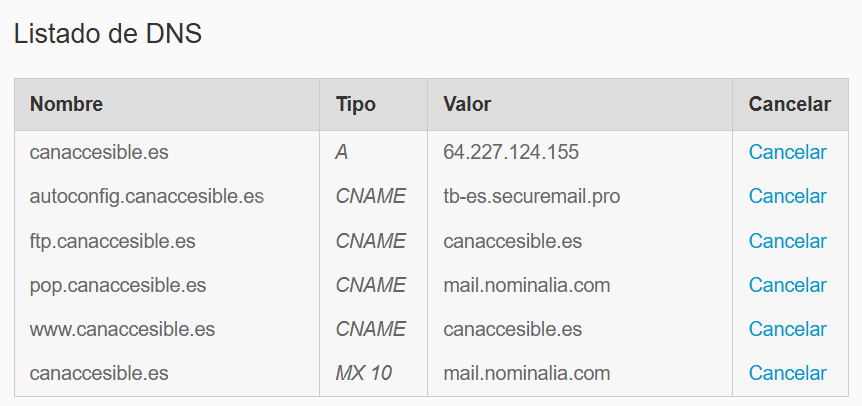
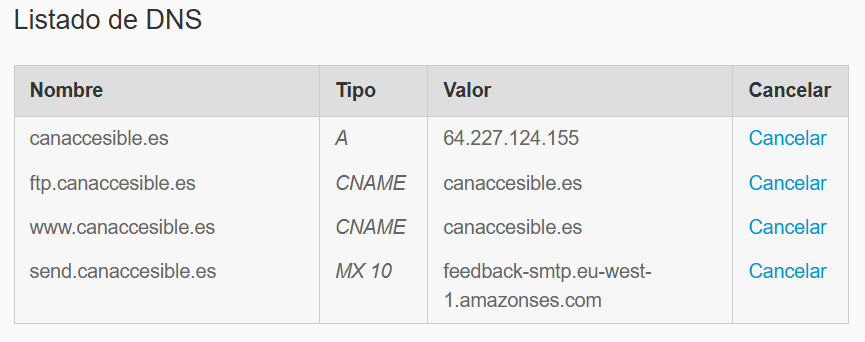
docs: Add Resend Email Service setup guide and update DNS configuration details

diff --git a/docs/domain-dns-setup.md b/docs/domain-dns-setup.md
@@ -17,11 +17,15 @@ To link the domain with the server, the DNS records were configured in the **Nom
 **Steps taken in Nominalia:**
 1.  Accessed the **Domain Management** section for `canaccesible.es`.
 2.  Navigated to **DNS & Name Servers** > **DNS Zone Management**.
-3.  Added/Modified the **A Record** to point to the DigitalOcean Droplet:
-    *   **Host/Name:** `@` (represents the root domain `canaccesible.es`)
-    *   **Type:** `A`
-    *   **Value/Destination:** `[DROPLET_IP]` (The public IP address of the DigitalOcean Droplet)
-    *   **TTL:** Default (usually 1 hour or 3600 seconds)
+3.  Configured the following records based on the project requirements (Access, FTP, WWW, and Email):
+
+    | Name | Type | Value (Destination) |
+    | :--- | :--- | :--- |
+    | `canaccesible.es` | **A** | `64.227.124.155` |
+    | `ftp.canaccesible.es` | **CNAME** | `canaccesible.es` |
+    | `www.canaccesible.es` | **CNAME** | `canaccesible.es` |
+    | `send.canaccesible.es` | **MX 10** | `feedback-smtp.eu-west-1.amazonses.com` |
+
 4.  Ensured **NS Records (Name Servers)** are set to Nominalia's default servers to allow management via their panel.
 
 > **Note on Propagation:** DNS changes are not instantaneous. They typically take between **5 minutes and 24 hours** to propagate globally.

diff --git a/README.md b/README.md
@@ -58,6 +58,7 @@ CanAccesible incorporates several modern web development approaches to enhance f
 - [Deployment Guide](./docs/deployment.md) - Complete step-by-step guide for deploying CanAccesible to production.
 - [Domain & DNS Setup](./docs/domain-dns-setup.md) - Guide on domain acquisition and DNS configuration.
 - [Logging System & Rotation](./docs/logging-system.md) - Guide on server and application log management.
+- [Resend Email Service Setup](./docs/resend.md) - Guide for configuring Resend API for email notifications.
 - [System Diagrams](./docs/diagrams.md) - Architecture, database, and component diagrams.
 - [Technologies & Tools](./docs/technologies.md) - Detailed overview of the tech stack, libraries, and external services.
 - [Team Workflow](./docs/workflow.md) - Guide on version control, branching strategy, and collaboration process.
